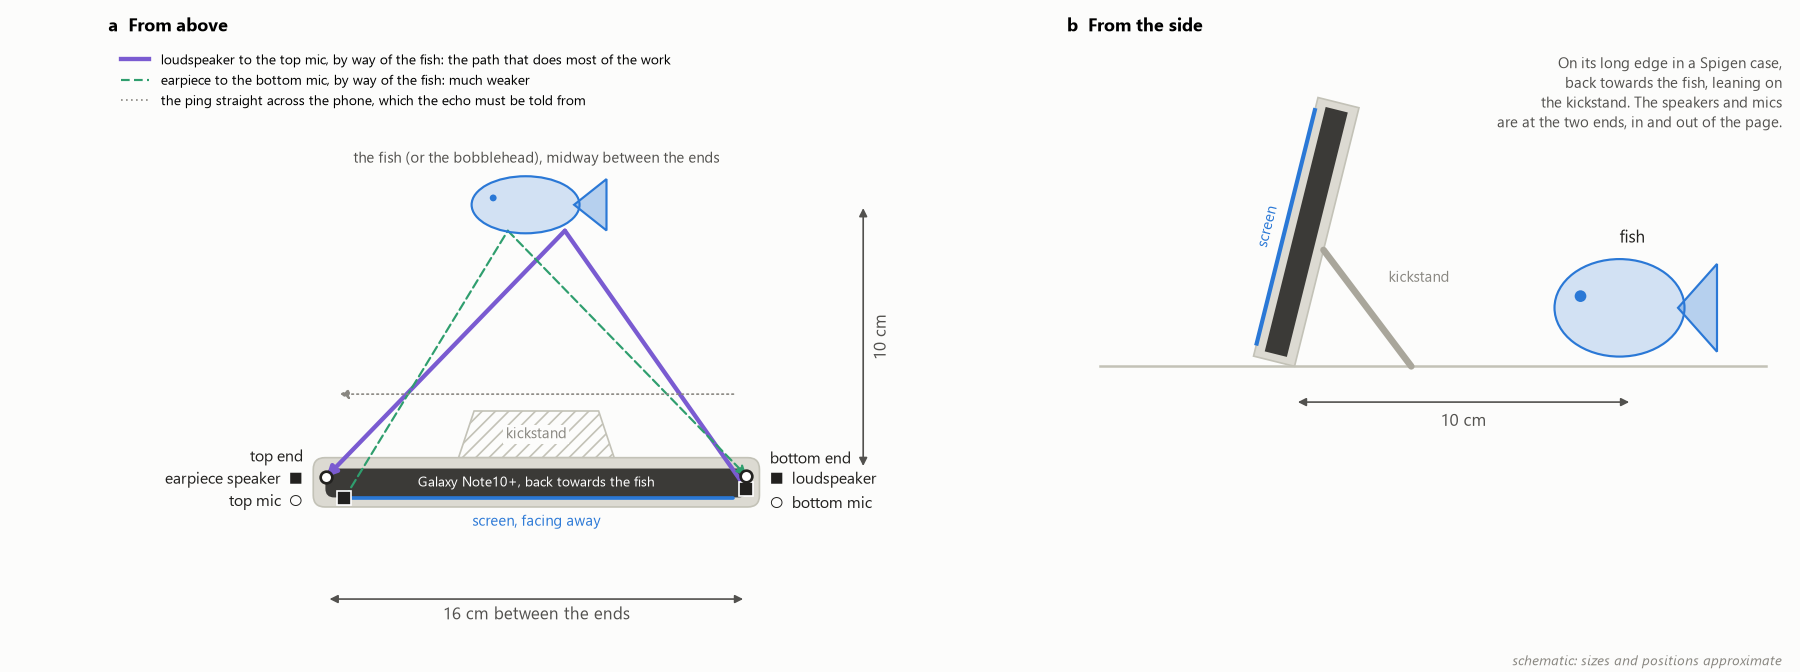
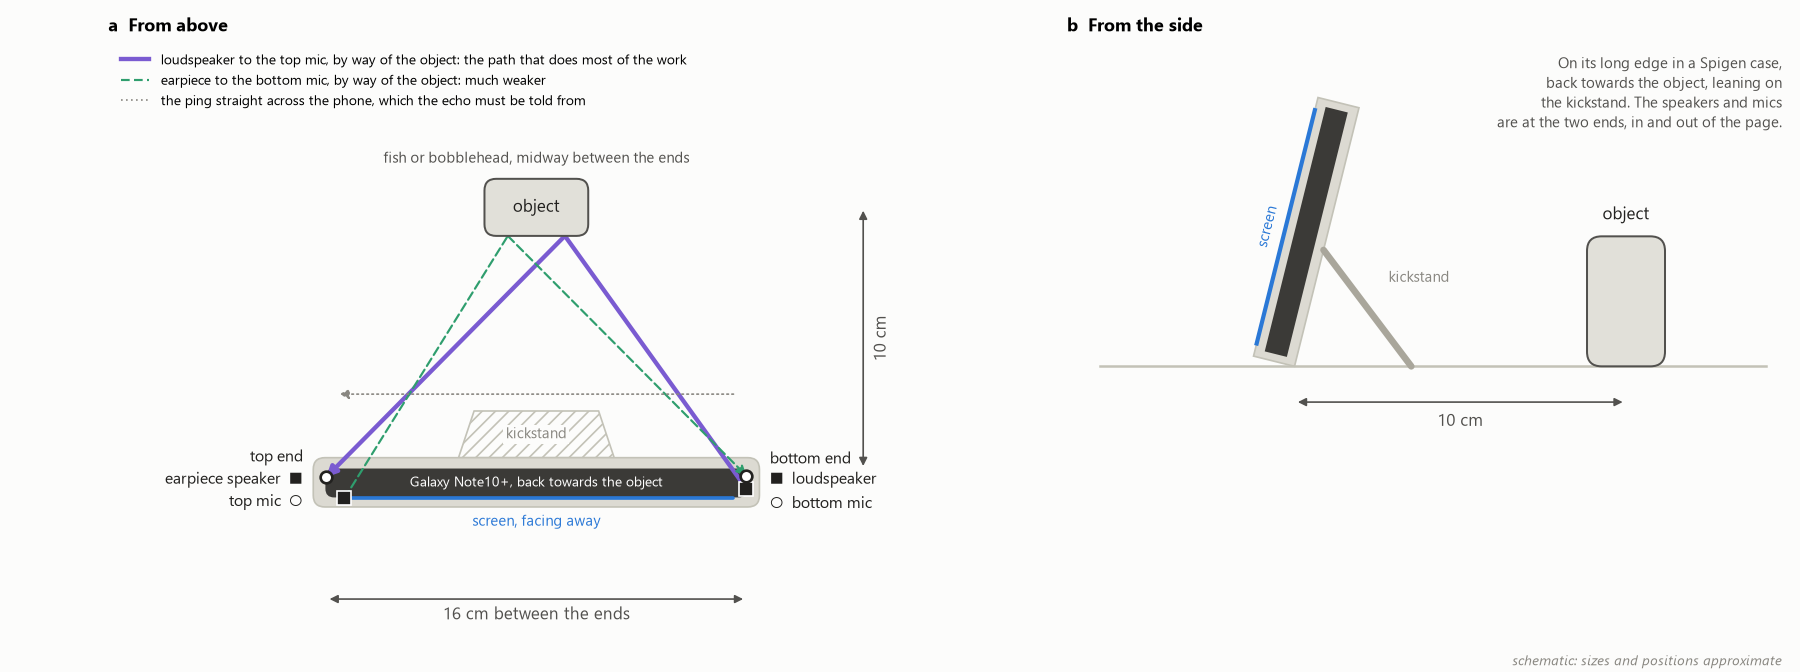
Setup diagram: plain object box again; reword the opening of Limits

diff --git a/analysis/figures.py b/analysis/figures.py
@@ -48,22 +48,18 @@ def setup():
         a.text((p[0] + q[0]) / 2 + off[0], (p[1] + q[1]) / 2 + off[1], text, ha="center", va="center", fontsize=10,
                color=INK2, rotation=rot)
 
-    def fish(a, cx, cy, length, height):
-        """A fish facing left (towards the phone), centred on (cx, cy)."""
-        from matplotlib.patches import Circle, Ellipse
-        tail = [(cx + 0.28 * length, cy), (cx + 0.52 * length, cy + 0.45 * height), (cx + 0.52 * length, cy - 0.45 * height)]
-        a.add_patch(Polygon(tail, closed=True, fc=BLUE + "55", ec=BLUE, lw=1.3, zorder=3))
-        a.add_patch(Ellipse((cx - 0.08 * length, cy), 0.80 * length, height, fc=BLUE + "33", ec=BLUE, lw=1.3, zorder=4))
-        a.add_patch(Circle((cx - 0.32 * length, cy + 0.12 * height), 0.06 * height, fc=BLUE, ec="none", zorder=5))
+    def thing(a, x, y, w, h):
+        """The object, the fish or the bobblehead, as a plain box."""
+        a.add_patch(FancyBboxPatch((x, y), w, h, boxstyle="round,pad=0,rounding_size=0.45", fc=GRID, ec=INK2, lw=1.2, zorder=4))
 
-    # a: from above. The phone lies along x with its back (y = 0) towards the fish at y = 10, its screen away.
+    # a: from above. The phone lies along x with its back (y = 0) towards the object at y = 10, its screen away.
     a = ax[0]
     a.add_patch(Polygon([(-3, 0.45), (3, 0.45), (2.4, 2.25), (-2.4, 2.25)], closed=True, fc="none", ec=AXIS, hatch="///", lw=1))
     a.text(0, 1.35, "kickstand", ha="center", va="center", fontsize=9, color=MUTED,
            bbox=dict(fc=steps.SURFACE, ec="none", pad=1.5))
     a.add_patch(FancyBboxPatch((-8.6, -1.45), 17.2, 1.9, boxstyle="round,pad=0,rounding_size=0.45", fc=CASE, ec=AXIS, lw=1))
     a.add_patch(FancyBboxPatch((-8.1, -1.05), 16.2, 1.05, boxstyle="round,pad=0,rounding_size=0.3", fc=BODY, ec=BODY))
-    a.text(0, -0.52, "Galaxy Note10+, back towards the fish", ha="center", va="center", fontsize=8.5, color="white")
+    a.text(0, -0.52, "Galaxy Note10+, back towards the object", ha="center", va="center", fontsize=8.5, color="white")
     a.plot([-7.6, 7.6], [-1.12, -1.12], color=BLUE, lw=2.2, solid_capstyle="round")
     a.text(0, -1.75, "screen, facing away", ha="center", va="top", fontsize=9, color=BLUE)
     loud, ear, top_mic, bottom_mic = (8.1, -0.75), (-7.4, -1.12), (-8.1, -0.3), (8.1, -0.25)
@@ -73,24 +69,25 @@ def setup():
         a.plot(*p, marker="o", ms=7, color="white", mec=INK, mew=1.6, zorder=6)
     a.text(-9.0, -0.4, "top end\nearpiece speaker  ■\ntop mic  ○", ha="right", va="center", fontsize=9.5, color=INK, linespacing=1.5)
     a.text(9.0, -0.4, "bottom end\n■  loudspeaker\n○  bottom mic", ha="left", va="center", fontsize=9.5, color=INK, linespacing=1.5)
-    fish(a, 0, 10.2, 5.2, 2.2)
-    a.text(0, 11.7, "the fish (or the bobblehead), midway between the ends", ha="center", va="bottom", fontsize=9, color=INK2)
-    hit_a, hit_b = (1.1, 9.2), (-1.1, 9.2)
+    thing(a, -2.0, 9.0, 4.0, 2.2)
+    a.text(0, 10.1, "object", ha="center", va="center", fontsize=10, color=INK, zorder=5)
+    a.text(0, 11.7, "fish or bobblehead, midway between the ends", ha="center", va="bottom", fontsize=9, color=INK2)
+    hit_a, hit_b = (1.1, 9.0), (-1.1, 9.0)
     arrow(a, loud, hit_a, PURPLE, 2.6, head=False)
     arrow(a, hit_a, top_mic, PURPLE, 2.6)
     arrow(a, ear, hit_b, GREEN, 1.3, ls=(0, (4, 2)), head=False)
     arrow(a, hit_b, bottom_mic, GREEN, 1.3, ls=(0, (4, 2)))
     arrow(a, (7.6, 2.9), (-7.6, 2.9), MUTED, 1, ls=(0, (1, 2)))
     span(a, (-8.1, -5.0), (8.1, -5.0), "16 cm between the ends", (0, -0.6))
-    span(a, (12.6, 0), (12.6, 10.2), "10 cm", (0.7, 0), rot=90)
-    a.plot([], [], color=PURPLE, lw=2.6, label="loudspeaker to the top mic, by way of the fish: the path that does most of the work")
-    a.plot([], [], color=GREEN, lw=1.3, ls=(0, (4, 2)), label="earpiece to the bottom mic, by way of the fish: much weaker")
+    span(a, (12.6, 0), (12.6, 10.1), "10 cm", (0.7, 0), rot=90)
+    a.plot([], [], color=PURPLE, lw=2.6, label="loudspeaker to the top mic, by way of the object: the path that does most of the work")
+    a.plot([], [], color=GREEN, lw=1.3, ls=(0, (4, 2)), label="earpiece to the bottom mic, by way of the object: much weaker")
     a.plot([], [], color=MUTED, lw=1, ls=(0, (1, 2)), label="the ping straight across the phone, which the echo must be told from")
     a.legend(loc="upper left", bbox_to_anchor=(0.0, 1.0), fontsize=8.5)
     a.set(xlim=(-16.5, 16.5), ylim=(-6.6, 16.5), aspect="equal", title="a  From above", anchor="N")
     a.axis("off")
 
-    # b: from the side. The phone stands on its long edge with its back towards the fish, leaning on the kickstand.
+    # b: from the side. The phone stands on its long edge with its back towards the object, leaning on the kickstand.
     a = ax[1]
     th, t, h = np.radians(14), 1.3, 8.2                      # lean, thickness with the case, height (the phone's width)
     n, up = np.array([np.cos(th), -np.sin(th)]), np.array([np.sin(th), np.cos(th)])   # screen to back; bottom to top
@@ -108,10 +105,10 @@ def setup():
     a.plot([s0[0], s1[0]], [s0[1], s1[1]], color=BLUE, lw=2.5)
     mid = (s0 + s1) / 2
     a.text(mid[0] - 0.55, mid[1], "screen", ha="center", va="center", fontsize=9, color=BLUE, rotation=90 - np.degrees(th))
-    fish(a, 10.4, 1.8, 5.0, 3.0)
-    a.text(10.4, 3.7, "fish", ha="center", va="bottom", fontsize=10, color=INK)
-    span(a, (0.0, -1.1), (10.4, -1.1), "10 cm", (0, -0.6))
-    a.text(15, 9.6, "On its long edge in a Spigen case,\nback towards the fish, leaning on\nthe kickstand. The speakers and mics\nare at the two ends, in and out of the page.",
+    thing(a, 9.0, 0.0, 2.4, 4.0)
+    a.text(10.2, 4.4, "object", ha="center", va="bottom", fontsize=10, color=INK)
+    span(a, (0.0, -1.1), (10.2, -1.1), "10 cm", (0, -0.6))
+    a.text(15, 9.6, "On its long edge in a Spigen case,\nback towards the object, leaning on\nthe kickstand. The speakers and mics\nare at the two ends, in and out of the page.",
            ha="right", va="top", fontsize=9, color=INK2, linespacing=1.4)
     a.set(xlim=(-7, 15), ylim=(-2.8, 10), aspect="equal", title="b  From the side", anchor="N")
     a.axis("off")

diff --git a/README.md b/README.md
@@ -4,7 +4,7 @@ A Samsung Galaxy Note10+ used as an active sonar in air. It pings above hearing 
 listens with its own microphones, and a small model running on the phone says which of two objects
 is standing in front of it: a 3D-printed fish or a bobblehead.
 
-![The setup from above and from the side: the phone on its stand, its speakers and mics, and the fish in front](docs/figures/0_setup.png)
+![The setup from above and from the side: the phone on its stand, its speakers and mics, and the object in front](docs/figures/0_setup.png)
 
 It is a deliberately small version of the problem a handheld search sonar solves: say what a target
 is from its echo, on the device, from data collected in the field. Most of the work went into
@@ -94,8 +94,8 @@ two crossing paths, and the app averages over the recording. On the phone it run
 
 ## Limits
 
-This exercises a search sonar's pipeline, not its physics. Beyond hard targets in air (above): there is
-no beam, so every direction lands in one echo; a real search has no empty scene to subtract; and it
+What carries over to a search sonar is the processing, not the physics. Besides hard targets in air
+(above): there is no beam, so every direction lands in one echo; a real search has no empty scene to subtract; and it
 listens while it transmits, which only a separate speaker and mic allow.
 
 ## More

diff --git a/docs/details.md b/docs/details.md
@@ -243,7 +243,8 @@ all 26 sets.
 
 ## Limits
 
-This exercises a search sonar's pipeline, not its physics. The differences, most important first:
+What carries over to a search sonar is the processing, not the physics. The differences, most
+important first:
 
 **The targets are acoustically hard; a body in water is not.** Acoustic impedance, density times
 sound speed, is about 410 rayl for air, 1.5 million for water, and millions for dense solids. In air
